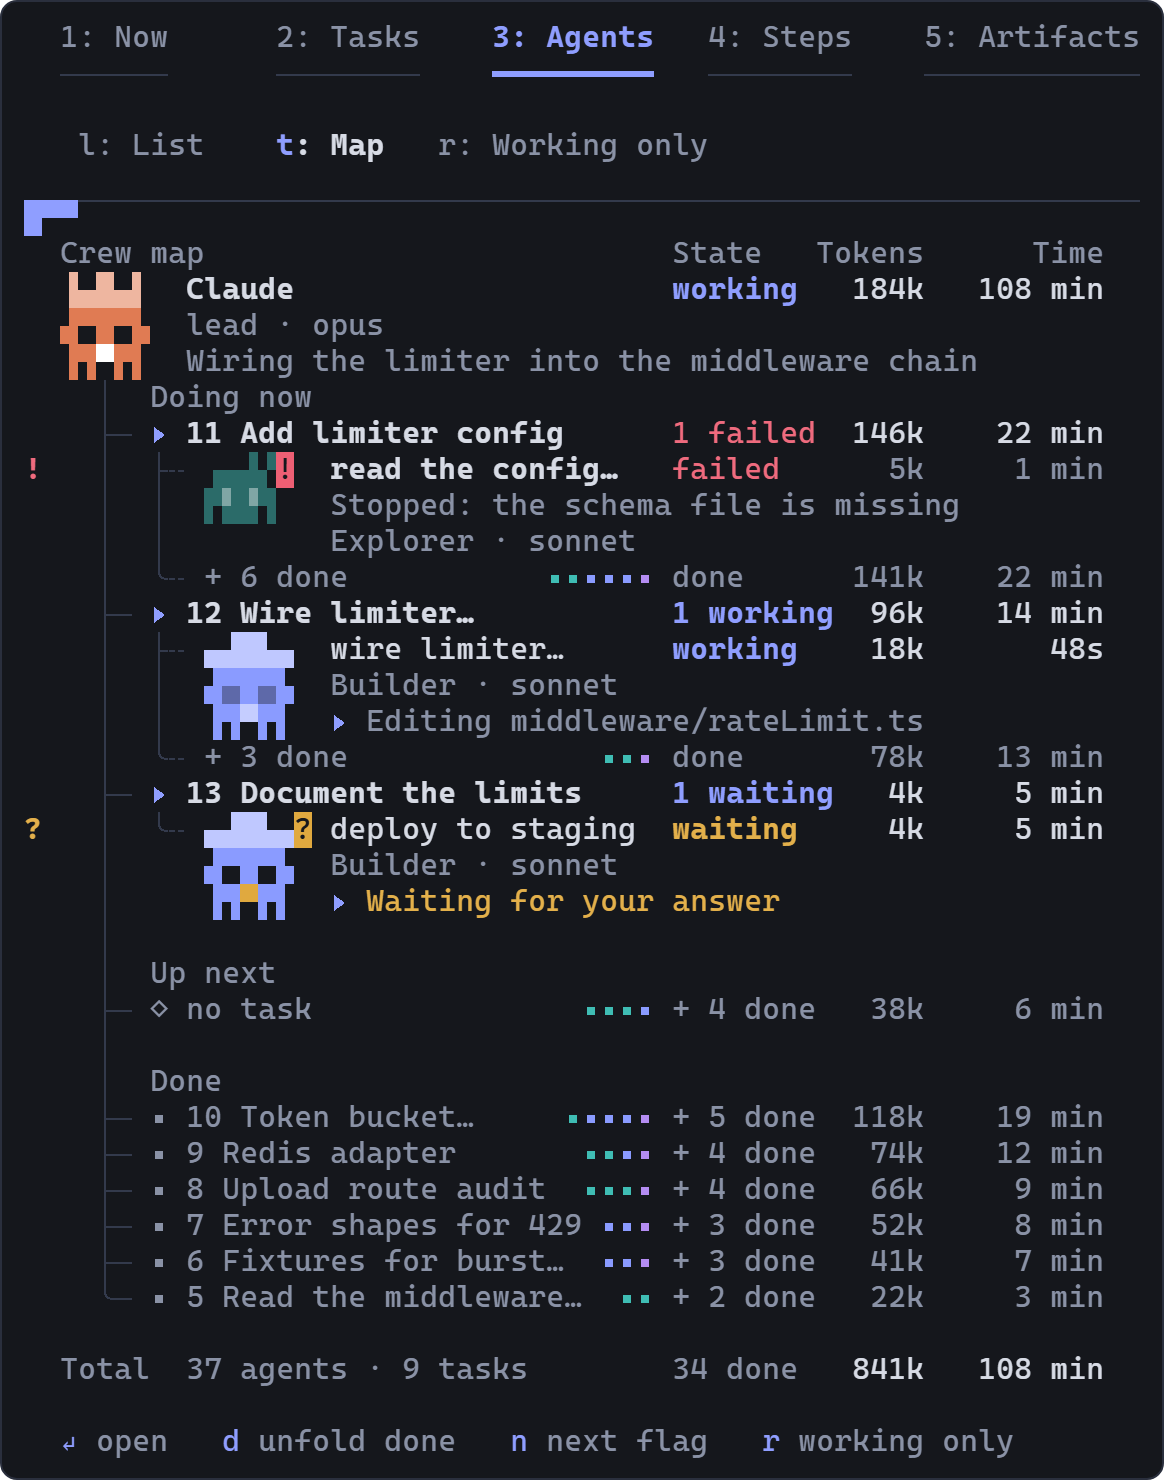
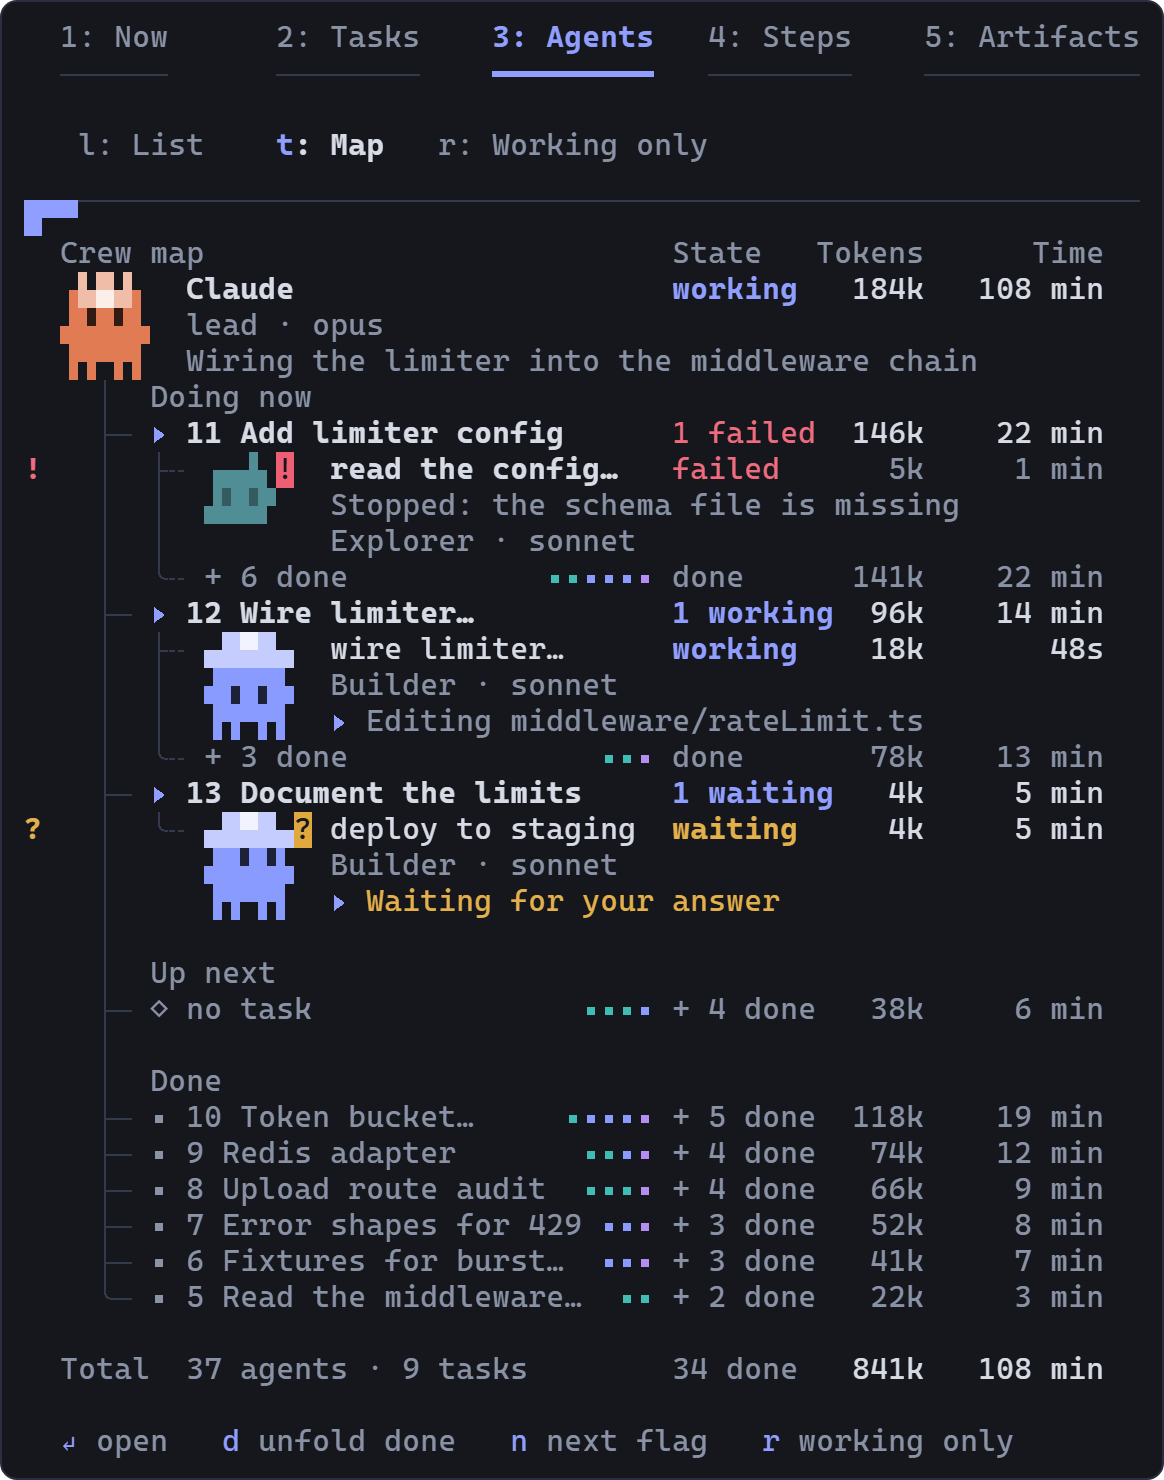
README: critter sheet and images redrawn for the mini mascot

diff --git a/docs/readme/tools/shots.test.tsx b/docs/readme/tools/shots.test.tsx
@@ -9,7 +9,7 @@ import type { Timeline, UiState } from '../../types'
 import { initialUi } from '../state'
 import { flaggedSession, listSession, mapSession } from './agents.fixtures.testkit'
 import { asked, busy, endedOpen, idle, NOW, stopped, watching } from './now.fixtures.testkit'
-import { critterBox, encode, ROLES, STATES } from './raster'
+import { critterBox, encode, CRITTER_ROLES, STATES } from './raster'
 import { screen } from './screen.testkit'
 import { artifactsTimeline, stepsTimeline, stepsUi, tasksTimeline } from './tabs.fixtures.testkit'
 
@@ -139,7 +139,7 @@ test('budget', async ($, on) => {
 test('critters', () => {
   for (const ground of ['night', 'day'] as const) for (const size of ['small', 'micro'] as const) {
     const sheet: unknown[] = []
-    for (const role of ROLES) for (const state of STATES) {
+    for (const role of CRITTER_ROLES) for (const state of STATES) {
       const g = critterBox(role, state, size, { ground })
       sheet.push({ role, state, columns: g.columns, rows: g.rows, cells: encode(g) })
     }

diff --git a/README.md b/README.md
@@ -106,13 +106,13 @@ A subagent's own list stays on its card ("3 of 5"); the header's count is the le
 </tr>
 </table>
 
-The name beside a Critter is the agent's real type in friendly case ("General", "Explorer", "Code reviewer"). The hat is only a hint.
+The name beside a Critter is the agent's real type in friendly case ("General", "Explorer", "Code reviewer"). The accessory and the colour are only a hint.
 
 <p align="center">
-  <img src="docs/readme/critters.png" width="820" alt="The crew sheet: four Critters, each in six states. Lead (the main conversation) wears a crown and is orange. Scout (explore and search agents) has a dish and goggles and is teal. Builder (every other agent) wears a hard hat and is blue. Checker (review, test and verify agents) holds a magnifier and is violet. Queued is dimmed with eyes shut; working is full colour with a white lamp on the belly; waiting on you has an amber lamp and a question-mark badge; stalled is dimmed with a z badge; failed has a red lamp and an exclamation badge; done is grey. Smaller sheets show the same crew on the day ground and in the micro size.">
+  <img src="docs/readme/critters.png" width="820" alt="The crew sheet: five Critters, each in six states, drawn as the same small mascot with a slab body, arm nubs and four stub legs. Lead (the main conversation) wears a crown and is orange. Explorer (explore and search agents) has an antenna and a raised arm and is teal. Builder (build and plan agents) wears a hard hat and is blue. Reviewer (review, test and verify agents) wears glasses and is violet. General (general-purpose and every other type) is plain and sky blue. The face shows the state: queued is dimmed, working has open eyes and blinks, waiting on you looks aside with a question-mark badge, stalled is greyed with shut eyes and a z badge, failed is greyed and sad with an exclamation badge, done is grey with shut eyes. Smaller sheets show the same crew on the day ground and in the micro size.">
 </p>
 
-**Critters** are the agents: small pixel characters drawn from the terminal's own block characters, three rows tall, or two in the band and the slim pane. The shape is the role and the colour is the state, so a glance tells you who is waiting on you and who has failed without reading a word. Only the lead wears the crown. A working Critter blinks about every four seconds; `motion: off` keeps everyone still.
+**Critters** are the agents: small pixel characters drawn from the terminal's own block characters, three rows tall, or two in the band and the slim pane. The colour and the accessory are the role (a crown, a hard hat, an antenna, glasses, or nothing for a general agent), and the face and the badge are the state, so a glance tells you who is waiting on you and who has failed without reading a word. Only the lead wears the crown. A working Critter blinks about every four seconds; `motion: off` keeps everyone still.
 
 ### Steps and Keep
 
